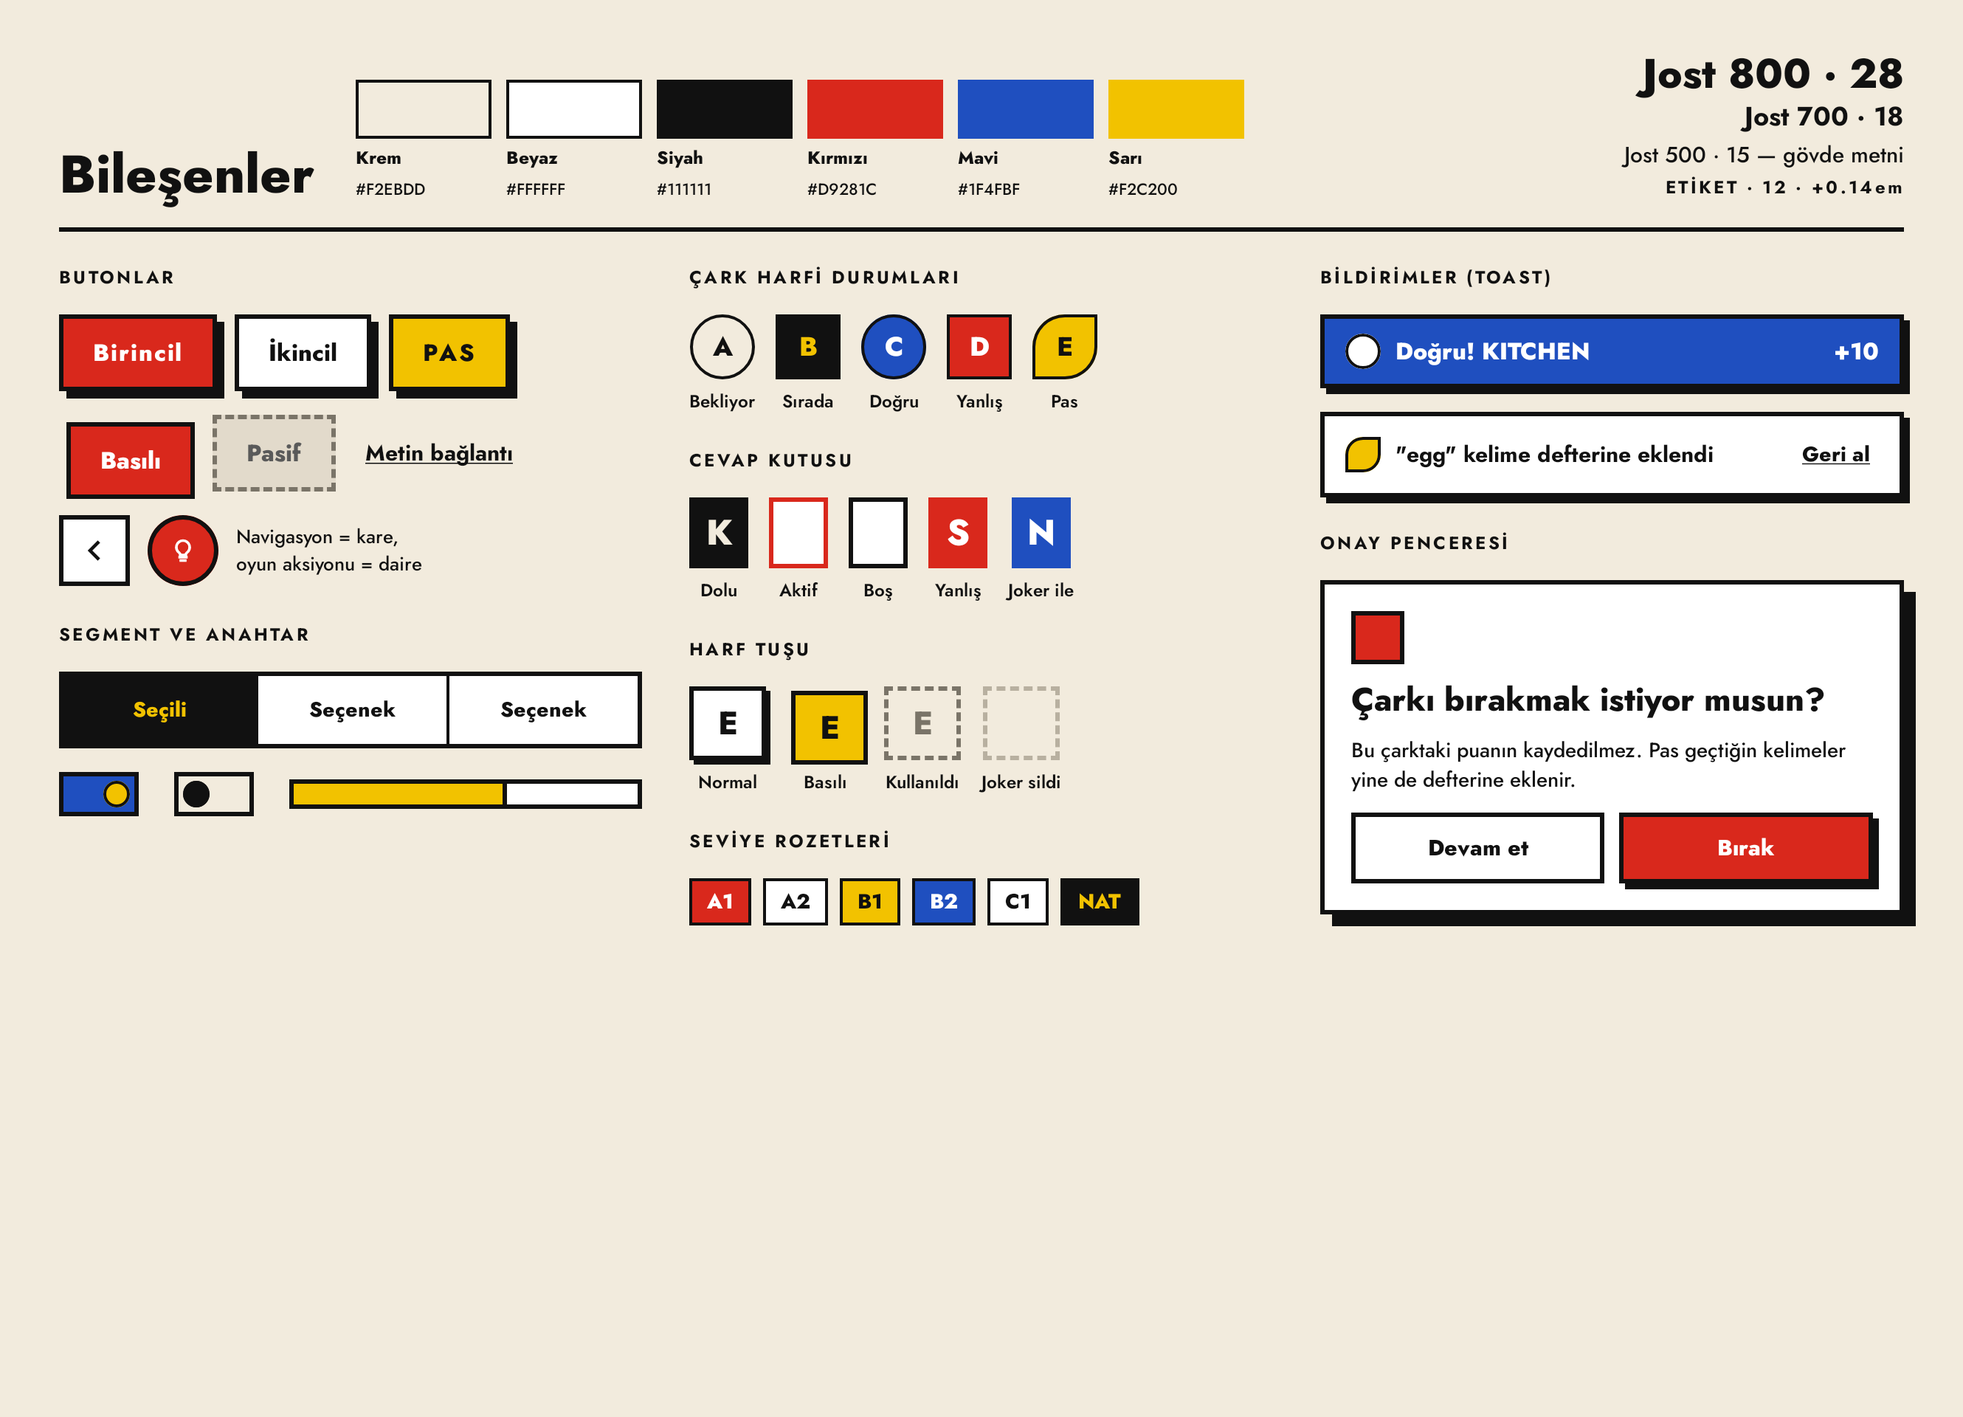
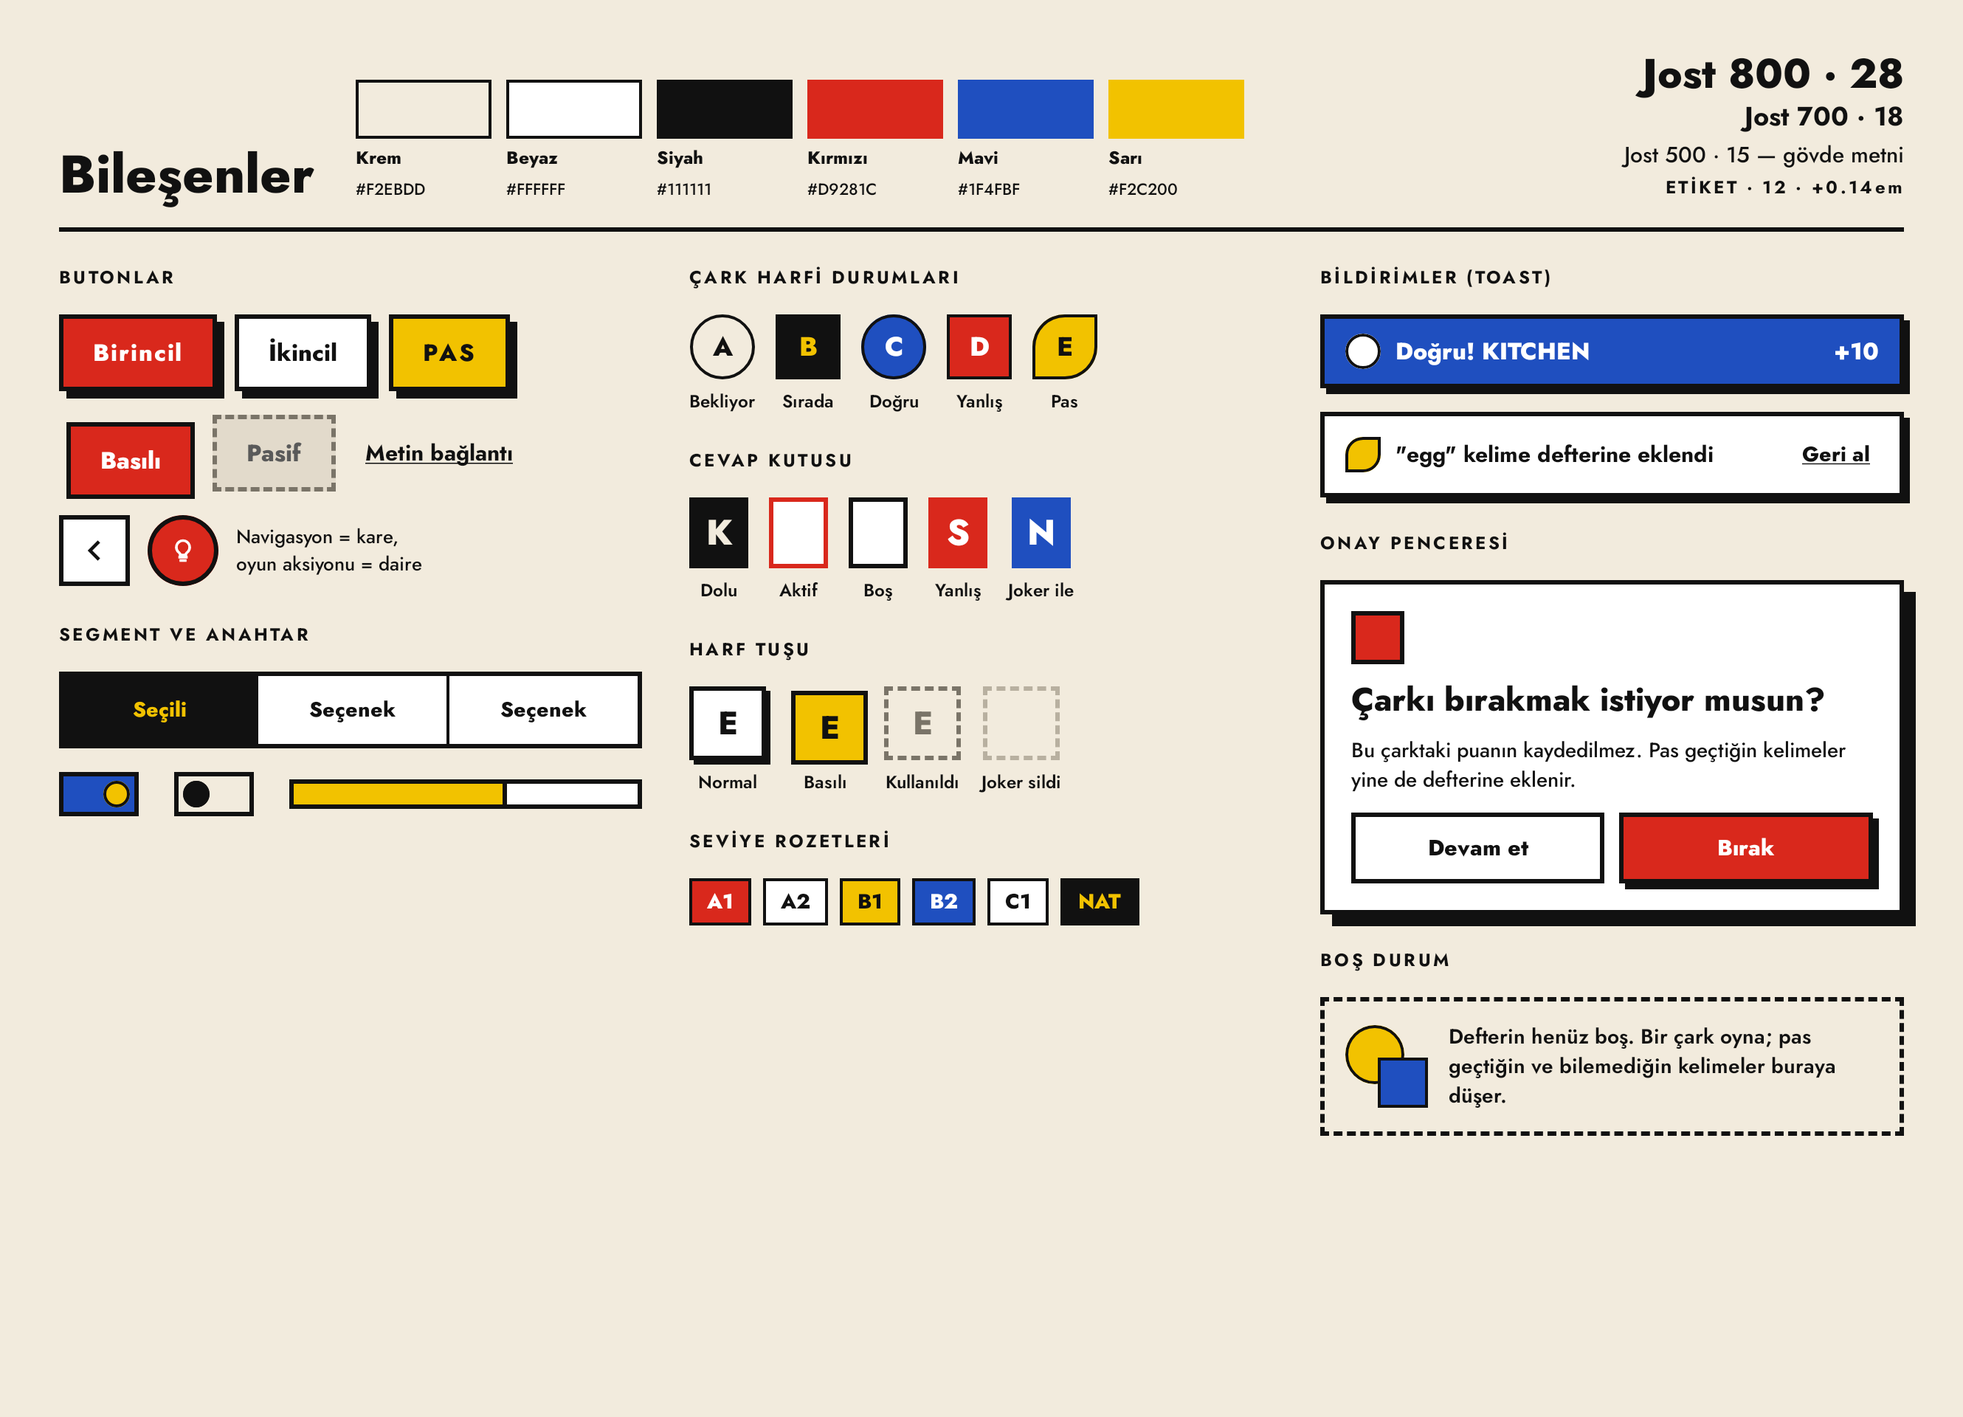
feat(designsystem): add BottomSheet, ModalScrim and EmptyState
- ModalScrim: full-size ink 55% layer, tap = onDismissRequest.
- BottomSheet host (motion.md #10): scrim fades, panel slides up from the
  bottom in 220 ms (mechanical); no slide under reduced motion. The panel
  (BottomSheetPanel, also public) is cream with a 4dp ink top edge,
  padding 20/20/28 plus bottom/side safe-drawing insets, gap 12, title
  row with heading24 and SheetCloseButton (44dp square x). Dialogs and
  sheets are overlays at the screen root; back handling comes with the
  screens in M4.
- EmptyState: dashed 3dp ink frame (border-box), padding 14, gap 14,
  56dp art of a 40dp yellow circle and a 34dp blue square (36/30 + 2dp
  content-box borders), caption14SemiBold message with lh 1.4.
- JokerSheetComponents.png builds the 05-joker-sheet panel from the
  components (joker rows are feature UI composed from PressableSurface
  and DecorShape) and matches the design within 1px; the gallery's BOS
  DURUM block matches 16-components.png but sits 1.5dp low because
  Compose rounds every fractional line box up (the dialog's lh 1.1 / 1.4
  lines above it).

Changed region(s): [[0.6865, 0.7188, 0.9361, 0.7812], [0.6865, 0.6562, 0.7177, 0.6875]]

diff --git a/core/designsystem/src/commonMain/kotlin/dev/talhabayhan/lexi/core/designsystem/component/Overlays.kt b/core/designsystem/src/commonMain/kotlin/dev/talhabayhan/lexi/core/designsystem/component/Overlays.kt
@@ -1,0 +1,221 @@
+package dev.talhabayhan.lexi.core.designsystem.component
+
+import androidx.compose.animation.AnimatedVisibility
+import androidx.compose.animation.EnterTransition
+import androidx.compose.animation.ExitTransition
+import androidx.compose.animation.core.tween
+import androidx.compose.animation.fadeIn
+import androidx.compose.animation.fadeOut
+import androidx.compose.animation.slideInVertically
+import androidx.compose.animation.slideOutVertically
+import androidx.compose.foundation.BorderStroke
+import androidx.compose.foundation.background
+import androidx.compose.foundation.clickable
+import androidx.compose.foundation.layout.Arrangement
+import androidx.compose.foundation.layout.Box
+import androidx.compose.foundation.layout.Column
+import androidx.compose.foundation.layout.ColumnScope
+import androidx.compose.foundation.layout.PaddingValues
+import androidx.compose.foundation.layout.Row
+import androidx.compose.foundation.layout.WindowInsets
+import androidx.compose.foundation.layout.WindowInsetsSides
+import androidx.compose.foundation.layout.fillMaxSize
+import androidx.compose.foundation.layout.fillMaxWidth
+import androidx.compose.foundation.layout.height
+import androidx.compose.foundation.layout.only
+import androidx.compose.foundation.layout.padding
+import androidx.compose.foundation.layout.safeDrawing
+import androidx.compose.foundation.layout.size
+import androidx.compose.foundation.layout.windowInsetsPadding
+import androidx.compose.material3.Text
+import androidx.compose.runtime.Composable
+import androidx.compose.ui.Alignment
+import androidx.compose.ui.Modifier
+import androidx.compose.ui.draw.drawBehind
+import androidx.compose.ui.geometry.Size
+import androidx.compose.ui.semantics.clearAndSetSemantics
+import androidx.compose.ui.semantics.paneTitle
+import androidx.compose.ui.semantics.semantics
+import androidx.compose.ui.tooling.preview.Preview
+import androidx.compose.ui.unit.Dp
+import androidx.compose.ui.unit.dp
+import dev.talhabayhan.lexi.core.designsystem.icon.LexiIcons
+import dev.talhabayhan.lexi.core.designsystem.modifier.dashedBorder
+import dev.talhabayhan.lexi.core.designsystem.modifier.lexiSurface
+import dev.talhabayhan.lexi.core.designsystem.theme.LexiTheme
+import dev.talhabayhan.lexi.core.designsystem.theme.withCssLineHeight
+
+/** Sheet and empty-state geometry (`05-joker-sheet.html`, `16-components.html`). */
+public object OverlayDefaults {
+    /** Sheet `padding: 20px 20px 28px`, gap 12, 4dp top border. */
+    public val SheetPadding: PaddingValues = PaddingValues(start = 20.dp, top = 20.dp, end = 20.dp, bottom = 28.dp)
+    public val SheetGap: Dp = 12.dp
+
+    /** Empty state: padding 14, gap 14, 56dp illustration (circle 36 + 2 × 2, square 30 + 2 × 2). */
+    public val EmptyPadding: Dp = 14.dp
+    public val EmptyGap: Dp = 14.dp
+    internal val EmptyArtSize: Dp = 56.dp
+    internal val EmptyCircleSize: Dp = 40.dp
+    internal val EmptySquareSize: Dp = 34.dp
+    internal const val EMPTY_LINE_HEIGHT: Double = 1.4
+}
+
+/**
+ * Full-screen ink scrim at 55 % behind dialogs and sheets; a tap on it calls [onDismissRequest]. Place it at the root
+ * of the screen (it fills its parent); back handling is the screen's (M4).
+ */
+@Composable
+public fun ModalScrim(onDismissRequest: () -> Unit, modifier: Modifier = Modifier) {
+    Box(
+        modifier
+            .fillMaxSize()
+            .clearAndSetSemantics {}
+            .background(LexiTheme.colors.scrim)
+            .clickable(interactionSource = null, indication = null, onClick = onDismissRequest),
+    )
+}
+
+/**
+ * Modal bottom sheet host (motion.md #10): the scrim fades to 55 % and the sheet slides up from the bottom in 220 ms
+ * (`mechanical`); under reduced motion the sheet appears without sliding. Fills its parent; [content] is laid out in
+ * a cream panel with a 4dp ink top edge, padding 20/20/28 plus the bottom/side safe-drawing insets, gap 12, under a
+ * title row with the close button.
+ */
+@Composable
+public fun BottomSheet(
+    visible: Boolean,
+    onDismissRequest: () -> Unit,
+    title: String,
+    closeContentDescription: String,
+    modifier: Modifier = Modifier,
+    content: @Composable ColumnScope.() -> Unit,
+) {
+    val motion = LexiTheme.motion
+    val duration = motion.bottomSheetDurationMillis
+    Box(modifier.fillMaxSize()) {
+        AnimatedVisibility(
+            visible = visible,
+            enter = fadeIn(tween(duration, easing = motion.mechanical)),
+            exit = fadeOut(tween(duration, easing = motion.mechanical)),
+        ) {
+            ModalScrim(onDismissRequest)
+        }
+        AnimatedVisibility(
+            visible = visible,
+            modifier = Modifier.align(Alignment.BottomCenter),
+            enter = if (motion.reducedMotion) {
+                EnterTransition.None
+            } else {
+                slideInVertically(
+                    tween(duration, easing = motion.mechanical),
+                ) {
+                    it
+                }
+            },
+            exit = if (motion.reducedMotion) {
+                ExitTransition.None
+            } else {
+                slideOutVertically(
+                    tween(duration, easing = motion.mechanical),
+                ) {
+                    it
+                }
+            },
+        ) {
+            BottomSheetPanel(
+                title = title,
+                trailing = { SheetCloseButton(closeContentDescription, onClick = onDismissRequest) },
+                content = content,
+            )
+        }
+    }
+}
+
+/** The sheet panel alone (cream, 4dp top border, padding, gap 12) with its title row. */
+@Composable
+public fun BottomSheetPanel(
+    title: String,
+    modifier: Modifier = Modifier,
+    trailing: @Composable () -> Unit = {},
+    content: @Composable ColumnScope.() -> Unit,
+) {
+    val colors = LexiTheme.colors
+    val topBorder = LexiTheme.borders.thick
+    Column(
+        modifier = modifier
+            .fillMaxWidth()
+            .semantics { paneTitle = title }
+            .clickable(interactionSource = null, indication = null) {}
+            .background(colors.cream)
+            .drawBehind { drawRect(colors.ink, size = Size(size.width, topBorder.toPx())) }
+            .padding(top = topBorder)
+            .windowInsetsPadding(WindowInsets.safeDrawing.only(WindowInsetsSides.Bottom + WindowInsetsSides.Horizontal))
+            .padding(OverlayDefaults.SheetPadding),
+        verticalArrangement = Arrangement.spacedBy(OverlayDefaults.SheetGap),
+    ) {
+        Row(
+            modifier = Modifier.fillMaxWidth(),
+            horizontalArrangement = Arrangement.SpaceBetween,
+            verticalAlignment = Alignment.CenterVertically,
+        ) {
+            Text(title, style = LexiTheme.typography.heading24)
+            trailing()
+        }
+        content()
+    }
+}
+
+/** Close button for [BottomSheetPanel]'s title row (44dp square, ×). */
+@Composable
+public fun SheetCloseButton(contentDescription: String, onClick: () -> Unit, modifier: Modifier = Modifier) {
+    NavSquareButton(LexiIcons.Close, contentDescription = contentDescription, onClick = onClick, modifier = modifier)
+}
+
+/** Empty state: dashed 3dp ink frame, overlapping yellow circle + blue square, message (14/600, lh 1.4). */
+@Composable
+public fun EmptyState(message: String, modifier: Modifier = Modifier) {
+    val colors = LexiTheme.colors
+    val border = LexiTheme.borders.regular
+    Row(
+        modifier = modifier
+            .dashedBorder(border, colors.ink)
+            .padding(border)
+            .padding(OverlayDefaults.EmptyPadding),
+        horizontalArrangement = Arrangement.spacedBy(OverlayDefaults.EmptyGap),
+        verticalAlignment = Alignment.CenterVertically,
+    ) {
+        Box(Modifier.size(OverlayDefaults.EmptyArtSize)) {
+            val outline = BorderStroke(LexiTheme.borders.thin, colors.ink)
+            DecorShape(DecorShapeKind.Circle, colors.yellow, Modifier.size(OverlayDefaults.EmptyCircleSize), outline)
+            DecorShape(
+                DecorShapeKind.Square,
+                colors.blue,
+                Modifier.align(Alignment.BottomEnd).size(OverlayDefaults.EmptySquareSize),
+                outline,
+            )
+        }
+        Text(
+            message,
+            style = LexiTheme.typography.caption14SemiBold.withCssLineHeight(OverlayDefaults.EMPTY_LINE_HEIGHT),
+        )
+    }
+}
+
+// design sample, not user-facing
+@Preview(widthDp = 390, heightDp = 500)
+@Composable
+private fun OverlaysPreview() {
+    LexiTheme(reducedMotion = false) {
+        Box(Modifier.fillMaxSize().background(LexiTheme.colors.cream)) {
+            EmptyState(
+                "Defterin henüz boş. Bir çark oyna; pas geçtiğin ve bilemediğin kelimeler buraya düşer.",
+                Modifier.padding(LexiTheme.dimens.gap20),
+            )
+            BottomSheet(visible = true, onDismissRequest = {
+            }, title = "Joker kullan", closeContentDescription = "Kapat") {
+                LexiButton("Kısa reklam izle · +1 joker", onClick = {}, variant = LexiButtonVariant.Ink, shadow = null)
+                Box(Modifier.height(LexiTheme.dimens.gap4))
+            }
+        }
+    }
+}

diff --git a/core/designsystem/src/androidHostTest/kotlin/dev/talhabayhan/lexi/core/designsystem/component/ScreenSampleScreenshotTest.kt b/core/designsystem/src/androidHostTest/kotlin/dev/talhabayhan/lexi/core/designsystem/component/ScreenSampleScreenshotTest.kt
@@ -3,6 +3,7 @@ package dev.talhabayhan.lexi.core.designsystem.component
 import androidx.compose.foundation.BorderStroke
 import androidx.compose.foundation.background
 import androidx.compose.foundation.layout.Arrangement
+import androidx.compose.foundation.layout.Box
 import androidx.compose.foundation.layout.Column
 import androidx.compose.foundation.layout.ColumnScope
 import androidx.compose.foundation.layout.PaddingValues
@@ -11,6 +12,7 @@ import androidx.compose.foundation.layout.Spacer
 import androidx.compose.foundation.layout.fillMaxSize
 import androidx.compose.foundation.layout.fillMaxWidth
 import androidx.compose.foundation.layout.height
+import androidx.compose.foundation.layout.heightIn
 import androidx.compose.foundation.layout.padding
 import androidx.compose.foundation.layout.size
 import androidx.compose.foundation.layout.width
@@ -18,6 +20,7 @@ import androidx.compose.material3.Text
 import androidx.compose.runtime.Composable
 import androidx.compose.ui.Alignment
 import androidx.compose.ui.Modifier
+import androidx.compose.ui.draw.alpha
 import androidx.compose.ui.graphics.Color
 import androidx.compose.ui.text.font.FontWeight
 import androidx.compose.ui.text.style.TextAlign
@@ -61,6 +64,13 @@ class ScreenSampleScreenshotTest {
     fun statsComponents() {
         captureRoboImage("src/androidHostTest/screenshots/StatsComponents.png") {
             LexiTheme(reducedMotion = false) { StatsSample() }
+        }
+    }
+
+    @Test
+    fun jokerSheetComponents() {
+        captureRoboImage("src/androidHostTest/screenshots/JokerSheetComponents.png") {
+            LexiTheme(reducedMotion = false) { JokerSheetSample() }
         }
     }
 
@@ -331,6 +341,87 @@ private fun StatsSample() {
                         )
                     }
                 }
+        }
+    }
+}
+
+private data class JokerSample(
+    val count: String,
+    val title: String,
+    val text: String,
+    val cost: String,
+    val marker: DecorShapeKind,
+)
+
+@Composable
+private fun JokerSheetSample() {
+    val colors = LexiTheme.colors
+    val typography = LexiTheme.typography
+    val jokers = listOf(
+        JokerSample("2", "Harf aç", "Sıradaki boş kutuya doğru harfi koyar", "−10 sn", DecorShapeKind.Circle),
+        JokerSample("1", "Çeldiricileri temizle", "Yanlış harf butonlarını kaldırır", "−15 sn", DecorShapeKind.Square),
+        JokerSample("3", "Örnek cümle", "Kelimeyi boşlukla bir cümlede gösterir", "−5 puan", DecorShapeKind.Leaf),
+        JokerSample(
+            "0",
+            "Telaffuzu dinle",
+            "Cevabı sesli okur (C1 ve üstünde kapalı)",
+            "−10 puan",
+            DecorShapeKind.Square,
+        ),
+    )
+    val chipColors = listOf(colors.blue, colors.red, colors.yellow, colors.white)
+    Box(Modifier.fillMaxSize().background(colors.cream)) {
+        BottomSheet(visible = true, onDismissRequest = {}, title = "Joker kullan", closeContentDescription = "Kapat") {
+            jokers.forEachIndexed { i, joker ->
+                val enabled = i < 3
+                PressableSurface(
+                    onClick = {},
+                    enabled = enabled,
+                    shadow = if (enabled) LexiTheme.shadows.s3 else null,
+                    modifier = Modifier.fillMaxWidth().heightIn(min = 68.dp).alpha(if (enabled) 1f else 0.5f),
+                    propagateMinConstraints = true,
+                ) {
+                    Row(
+                        modifier = Modifier.padding(horizontal = 12.dp, vertical = 10.dp),
+                        horizontalArrangement = Arrangement.spacedBy(12.dp),
+                        verticalAlignment = Alignment.CenterVertically,
+                    ) {
+                        Box(Modifier.size(40.dp), contentAlignment = Alignment.Center) {
+                            DecorShape(
+                                joker.marker,
+                                chipColors[i],
+                                Modifier.fillMaxSize(),
+                                BorderStroke(2.dp, colors.ink),
+                            )
+                            Text(
+                                joker.count,
+                                style = typography.bodyStrong17,
+                                color = if (i < 2) colors.white else colors.ink,
+                            )
+                        }
+                        Column(Modifier.weight(1f)) {
+                            Text(joker.title, style = typography.bodyStrong17)
+                            Text(joker.text, style = typography.caption13)
+                        }
+                        Text(
+                            joker.cost,
+                            style = typography.bodyStrong14,
+                            modifier = Modifier
+                                .lexiSurface(colors.cream, BorderStroke(2.dp, colors.ink))
+                                .padding(horizontal = 8.dp, vertical = 3.dp),
+                        )
+                    }
+                }
+            }
+            LexiButton(
+                text = "Kısa reklam izle · +1 joker",
+                onClick = {},
+                variant = LexiButtonVariant.Ink,
+                shadow = null,
+                leadingIcon = LexiIcons.Play,
+                height = LexiButtonDefaults.LargeHeight,
+                modifier = Modifier.fillMaxWidth().padding(top = 4.dp),
+            )
         }
     }
 }

diff --git a/core/designsystem/src/commonMain/kotlin/dev/talhabayhan/lexi/core/designsystem/gallery/GallerySections.kt b/core/designsystem/src/commonMain/kotlin/dev/talhabayhan/lexi/core/designsystem/gallery/GallerySections.kt
@@ -19,6 +19,7 @@ import dev.talhabayhan.lexi.core.designsystem.component.ActionCircleButton
 import dev.talhabayhan.lexi.core.designsystem.component.AnswerSlot
 import dev.talhabayhan.lexi.core.designsystem.component.AnswerSlotState
 import dev.talhabayhan.lexi.core.designsystem.component.ConfirmDialog
+import dev.talhabayhan.lexi.core.designsystem.component.EmptyState
 import dev.talhabayhan.lexi.core.designsystem.component.IconButtonDefaults
 import dev.talhabayhan.lexi.core.designsystem.component.LetterKey
 import dev.talhabayhan.lexi.core.designsystem.component.LetterKeyState
@@ -188,6 +189,11 @@ internal fun ColumnScope.GalleryColumnThree() {
         dismissLabel = "Devam et",
         onConfirm = {},
         onDismiss = {},
+        modifier = Modifier.fillMaxWidth(),
+    )
+    SectionLabel("BOŞ DURUM", topMargin = LexiTheme.dimens.gap6)
+    EmptyState(
+        "Defterin henüz boş. Bir çark oyna; pas geçtiğin ve bilemediğin kelimeler buraya düşer.",
         modifier = Modifier.fillMaxWidth(),
     )
 }
